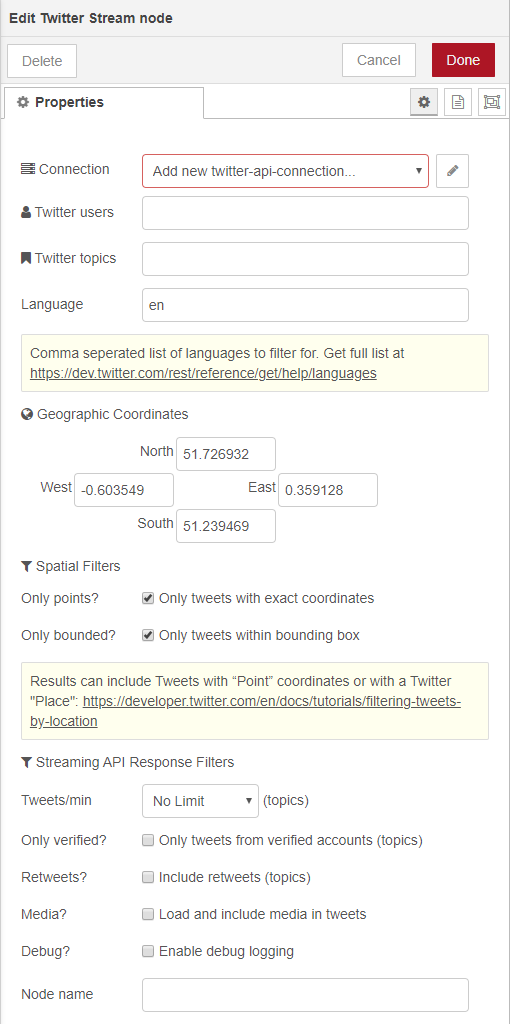
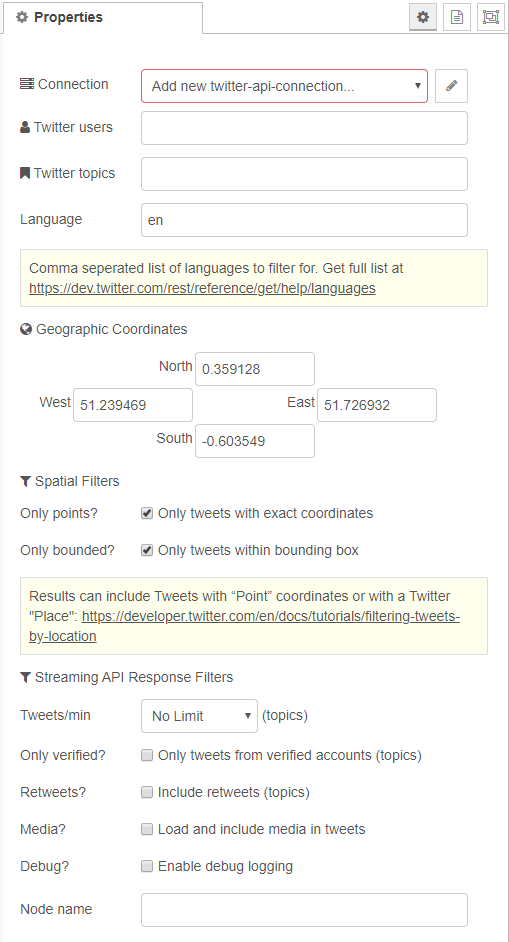
Updated coordinate form widths and UI image

Changed region(s): [[0.0, 0.0, 1.0, 0.9851], [0.6778, 0.4002, 0.7662, 0.4618]]

diff --git a/twitter/twitter.html b/twitter/twitter.html
@@ -63,21 +63,21 @@
     <table>
         <tr>
             <td><label for="" style="width:50px"></td>
-            <td><label for="node-input-ymax" style="width:100px; text-align:right"> North</label></td>
-            <td><input type="text" id="node-input-ymax" style="width:100px"></td>
-            <td><label for="" style="width:100px"></td>                       
+            <td><label for="node-input-ymax" style="width:120px; text-align:right"> North</label></td>
+            <td><input type="text" id="node-input-ymax" style="width:120px"></td>
+            <td><label for="" style="width:120px"></td>                       
         </tr>
         <tr>
             <td><label for="node-input-xmin" style="width:50px; text-align:right"> West</label></td>
-            <td><input type="text" id="node-input-xmin" style="width:100px"></td>
-            <td><label for="node-input-xmax" style="width:100px; text-align:right"> East</label></td>
-            <td><input type="text" id="node-input-xmax" style="width:100px"></td>                    
+            <td><input type="text" id="node-input-xmin" style="width:120px"></td>
+            <td><label for="node-input-xmax" style="width:120px; text-align:right"> East</label></td>
+            <td><input type="text" id="node-input-xmax" style="width:120px"></td>                    
         </tr>
         <tr>
             <td><label for="" style="width:50px"></td>
-            <td><label for="node-input-ymin" style="width:100px; text-align:right"> South</label></td>
-            <td><input type="text" id="node-input-ymin" style="width:100px"></td>
-            <td><label for="" style="width:100px"></td>                       
+            <td><label for="node-input-ymin" style="width:120px; text-align:right"> South</label></td>
+            <td><input type="text" id="node-input-ymin" style="width:120px"></td>
+            <td><label for="" style="width:120px"></td>                       
         </tr>
     </table>
     </div>
